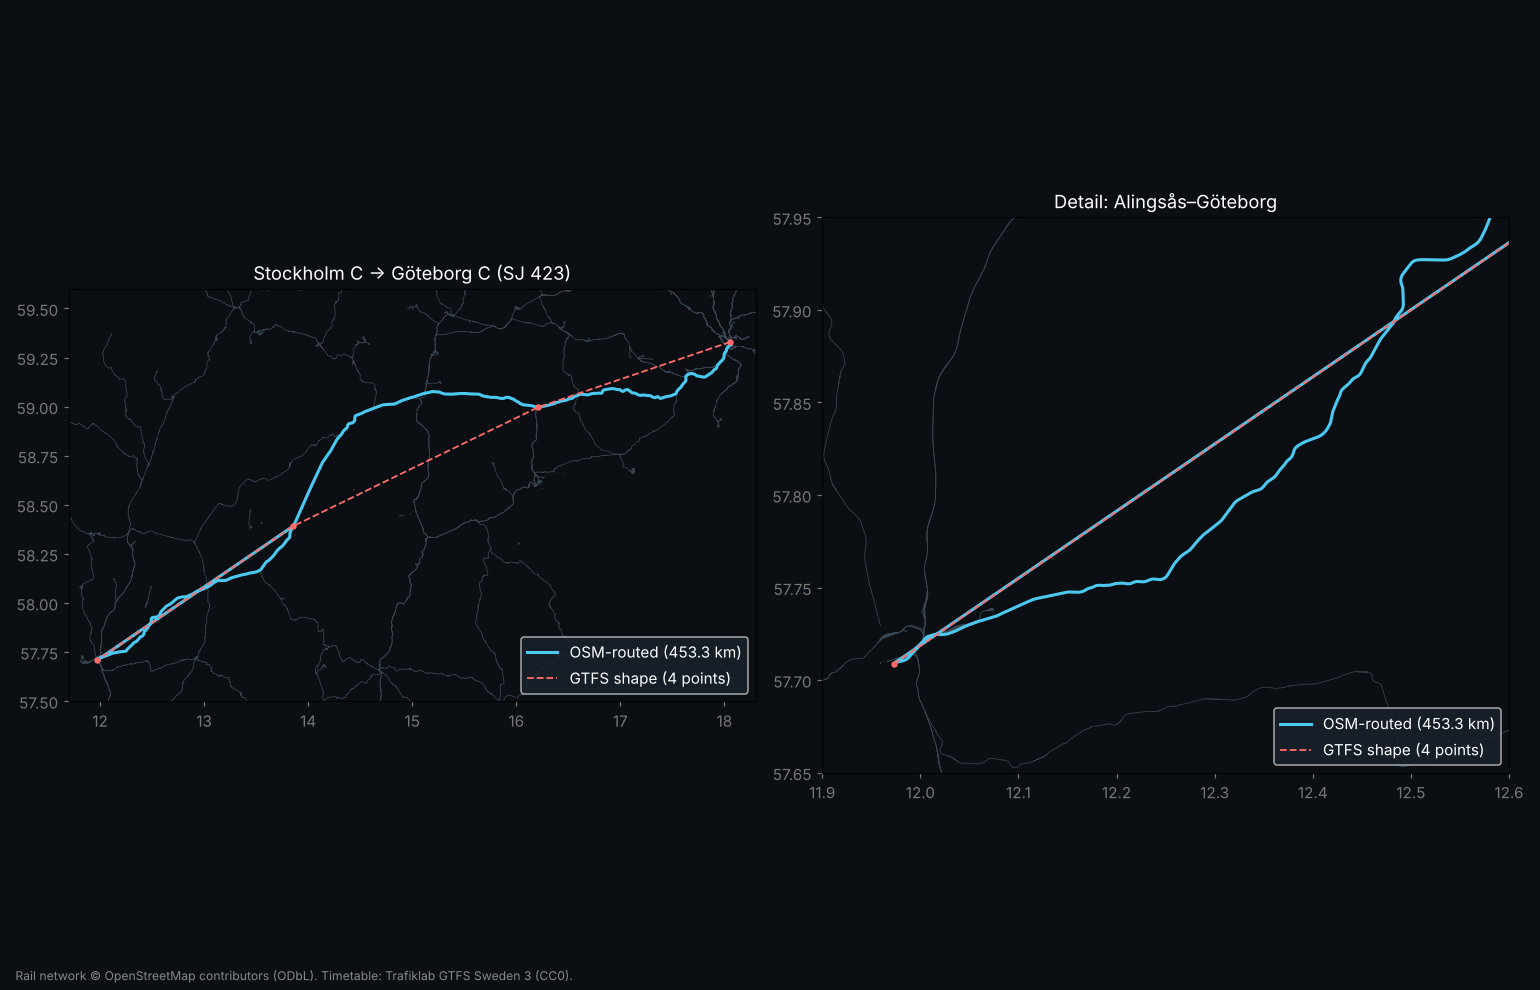
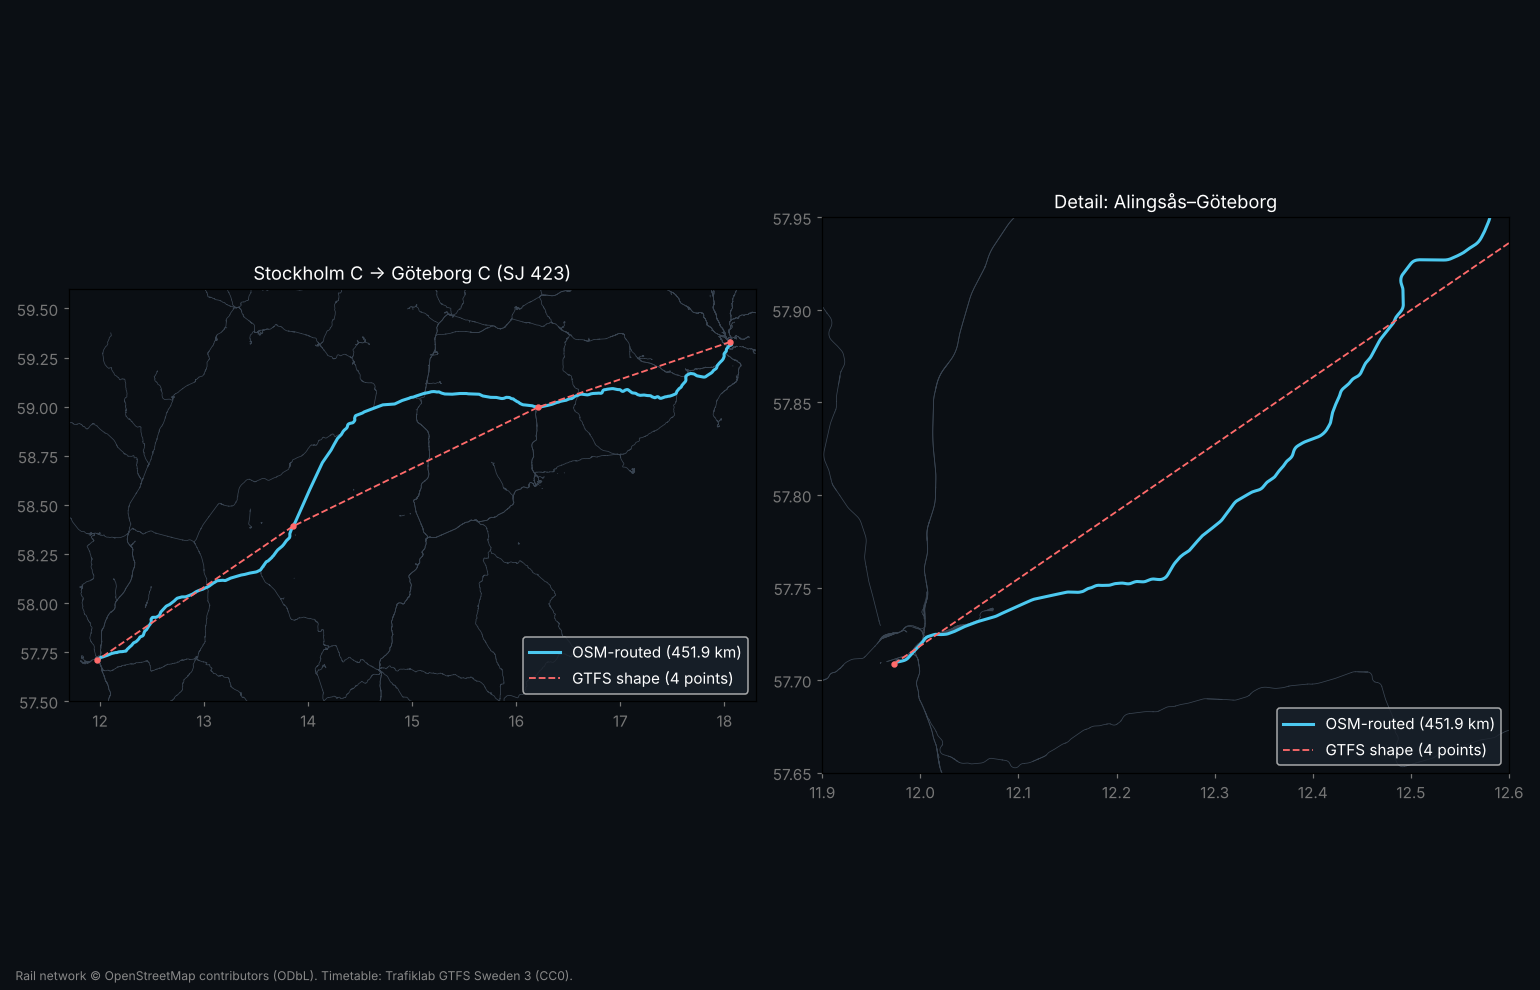
Phase 0: cross-border routing, coordinate fixes, final findings
- OSM graph now Sweden + Denmark + Norway: 99.1% of station pairs route;
  remaining 4 long routes checked against track and are real
- router uses the on-track coordinate when GTFS and Trafikverket disagree
  (Notviken is 54 km off in GTFS); fixed pair direction for drawn geometry
- findings: Trafikverket has no actual times at Danish/Norwegian stops;
  first-pass matching notes marked as superseded

Claude-Session: https://claude.ai/code/session_01UtYUJ88SAgfQVrfHXR6cFr

diff --git a/DATA_FINDINGS.md b/DATA_FINDINGS.md
@@ -16,7 +16,7 @@ downloads live in `data/cache/` (gitignored).
 |---|---|---|---|
 | A | §10: fetch actuals "when the app is opened" | **Trafikverket keeps only ~4 days of history** | A small server-side job snapshots every leg that arrived in the last 3 days (**decided**, see Decisions). |
 | B | §5.3: GTFS Sverige 2 fetched with a key, packaging unknown | Keyless public **archive of daily snapshots back to Aug 2012** at `data.samtrafiken.se` | Use the archive for history (no quota). The key is only needed for the newest snapshot. |
-| C | §12: prefer GTFS shapes if good | GTFS rail shapes are **straight stop-to-stop lines** for ~95% of trips | OSM routing is the primary geometry. It works for 94% of station pairs today; cross-border needs DK/NO/DE OSM data too. |
+| C | §12: prefer GTFS shapes if good | GTFS rail shapes are **straight stop-to-stop lines** for ~95% of trips | OSM routing is the primary geometry: **99.1% of station pairs** route along real track with SE+DK+NO data (the rest are Germany and bus stops). |
 | D | §8: rolling window −7 days from GTFS Sweden 3 | GTFS Sweden 3 starts at **yesterday** (runs to Dec 2027) | Never delete past days on import (keep our own history); older dates come from the Sverige 2 archive. |
 | E | §11: classify by route_type/agency/name | **Replacement buses are filed under rail route_types and train numbers** | Exclude using Trafikverket `TypeOfTraffic = Buss` and "trip calls at a non-railway stop". |
 | F | §5.2: GTFS file is "a download" | `sweden.zip` is **804 MB** (3.9 GB unzipped; `shapes.txt` alone is 3.0 GB) | The import must stream and should skip `shapes.txt`. |
@@ -32,7 +32,7 @@ Script: `trv-history-window.mjs`, plus a global oldest/newest query.
 
 - **Oldest row in the whole `TrainAnnouncement` dataset:** 2026-10-16 00:00 local, i.e. **00:00 four days ago**. Nothing exists before that, for any train.
 - **Newest row:** 2026-11-04 (≈ **15 days ahead**).
-- Within the window, every past advertised stop has `TimeAtLocation` (actual) and `TrackAtLocation` (platform). Example: SJ 523 on 2026-10-17/18/19 had 16/16 advertised rows with actual times and tracks.
+- Within the window, past advertised stops normally have `TimeAtLocation` (actual) and `TrackAtLocation` (platform). Example: SJ 523 on 2026-10-17/18/19 had 16/16 advertised rows with actual times and tracks. Some regional lines have gaps; see "How complete are actual times?" below.
 
 | days ago | 1 | 2 | 3 | 5 | 7 | 30 | 90 | 365 |
 |---|---|---|---|---|---|---|---|---|
@@ -42,7 +42,7 @@ Script: `trv-history-window.mjs`, plus a global oldest/newest query.
 
 **Implications**
 - "Full delay data" ends **~3 full days after the trip**. A leg added later than that, or a past leg whose actuals were never fetched in time, becomes `scheduled_only`.
-- Waiting for the user to open the app (spec §10) will lose data whenever they don't open it within 3 days. **Recommendation:** a server cron (node-cron, already in the stack) that runs a few times a day and snapshots all `planned` legs whose scheduled arrival has passed. It costs 1 Trafikverket request per leg.
+- Waiting for the user to open the app (spec §10) will lose data whenever they don't open it within 3 days. **Decided:** a server cron (node-cron, already in the stack) that runs a few times a day and snapshots all `planned` legs whose scheduled arrival has passed. It costs about 1 Trafikverket request per leg.
 - Every row also carries non-advertised technical passage points (`Advertised=false`) with actual times. That's useful later for "passed through" and progress, but filter on `Advertised=true` for the stop list.
 - Schema versions: **`TrainAnnouncement` 1.9** and **`TrainStation` 1.4** are the newest accepted (1.10 / 1.5 rejected). Times come with offsets (`+02:00`/`+01:00`), so convert to UTC on ingest.
 - Useful extra fields not in the spec: `TimeAtLocationWithSeconds`, `TypeOfTraffic` (Tåg/Pendeltåg/Buss), `ProductInformation` (e.g. "SJ Snabbtåg"), `OperationalTrainNumber`, `TrainComposition`, `Deleted`.
@@ -86,13 +86,13 @@ Script: `q2-train-numbers.mjs`, run for 2026-10-19 and 2026-10-20.
 | `trip_short_name` | 300/4157 | 291 (7.0%) |
 | `route_short_name` | 4157/4157 | 2388 (57.4%) |
 
-Per operator (2026-10-19), using `samtrafiken_internal_trip_number`:
+First pass, number only (2026-10-19), using `samtrafiken_internal_trip_number`. This is superseded by the final method below:
 - **100% match:** Västtågen, SL Pendeltåg, Pågatåg, Mälartåg, SJ, VR Sverige (Öresundståg), Tåg i Bergslagen, Krösatåg (all), Östgötapendeln, Norrtåg, Värmlandstrafik, Tågkompaniet, X-Tåget, Vygruppen.
 - **0% (expected: not in Trafikverket at all):**
   - Roslagsbanan (Transdev, 493 trips) and Saltsjöbanan (AB Stockholms Spårvägar, 231). These are not on Trafikverket's network.
   - **Arlanda Express** (180). Trafikverket's own station text says "Arlanda Express visas ej".
   - These will always be `scheduled_only`.
-- **Partial:** Snälltåget 57% and a few Öresundståg/MTRX. GTFS uses a leading extra digit for date or route variants (`90306`, `10300`, `93940`, `51053`). After dropping the first digit of a 5-digit number they match Trafikverket's `306`, `300`, `3940`, `1053` with matching times. Rule: exact match first, then prefix-stripped with time validation.
+- **Partial:** Snälltåget 57% and a few Öresundståg/MTRX. GTFS uses a leading extra digit for date or route variants (`90306`, `10300`, `93940`, `51053`). Dropping the first digit finds Trafikverket's `306`, `300`, `3940`, `1053`. But `90306` is actually a connecting bus on another route and `10300` continues as `3940`, so stripping alone is unsafe. The final method below requires matching stations *and* times.
 - 229–305 Trafikverket trains per day have no GTFS counterpart. They're mostly short-notice Västtågen variants (`63594`…), buses (`TypeOfTraffic=Buss`) and the Järnvägsmuseet railbus. A train-number search should therefore also query Trafikverket for dates inside its window.
 
 **Final matching method (`q2-match.mjs`).** Three things make "number on a date" unreliable on its own:
@@ -241,41 +241,53 @@ Scripts: `q6-shape-stats.mjs`, `osm_rail_extract.py`, `q6-osm-route.mjs`, `plot_
 
 **GTFS Sweden 3 shapes are not usable as track geometry for most trains.** For 25,531 rail shapes:
 - Västtågen, Pågatåg, SL Pendeltåg, Mälartåg, Arlanda Express, Norrtåg, Snälltåget, MTRX, Krösatåg, Öresundståg (106) and most SJ have **no more points than stops** (0.0–0.3 points/km, median gaps 8–350 km). They are straight lines between stations.
-- Detailed shapes exist only for VR Sverige (Öresundståg, 11 pts/km), Roslagsbanan (55), Saltsjöbanan (64), Tågkompaniet (22) and a few SJ. Where present they're **track-accurate**: median 6–21 m from OSM track.
+- Detailed shapes exist only for VR Sverige (Öresundståg, 11 pts/km), Roslagsbanan (55), Saltsjöbanan (64), Tågkompaniet (22) and a few SJ. Where present they're **track-accurate** (see the OSM comparison below).
 - Some shapes contain bogus far-away points (gaps up to ~5,900 km), so validate before using any.
 
-**OSM routing works** (Sweden extract from `download.openstreetmap.fr`, dated 2026-10-19, 1.0 GB). Keeping `railway=rail|light_rail|narrow_gauge` gives 25,352 ways and 313k nodes, 11.5 MB as JSON.
-- **Service track** (`service=yard|siding|spur`) must stay in the graph with a cost penalty. Dropping it disconnects Borlänge–Falun and Hallsberg–Kumla inside stations.
-- **All 867 station pairs used on 2026-10-20:**
-  - **817 (94.2%) route cleanly.** Track length is a median 1.07× the straight line (p95 1.32×).
-  - **41 fail to snap.** All are stations outside Sweden (Norway, Copenhagen side of Öresund, Germany) or bus stops, so they need DK/NO/DE OSM extracts.
-  - **1 has no path:** Halden–Ed, which crosses into Norway.
-  - **8 have suspicious detours.** Sundsvall area ×1.6–1.8, Älvkarleby–Skutskär ×1.7, Oleby–Torsby. These need snapping/tuning in Phase 1.
-- **Example: SJ 423 Stockholm C → Göteborg C routes 453.3 km** (real line ≈ 455 km). Straight stop-to-stop GTFS geometry gives 397.5 km, which would understate distance and CO₂ by ~12%. SJ 523 → Malmö: 596.6 km routed vs 533.3 km straight. See `docs/phase0/route_sample.png`.
+**OSM routing works.** Extracts from `download.openstreetmap.fr` dated 2026-10-19: Sweden 1.0 GB, Denmark 0.55 GB, Norway 1.4 GB. Keeping `railway=rail|light_rail|narrow_gauge` across all three gives 47,984 ways and 552k nodes, 25 MB as JSON. It took ~15 min to build with pyosmium.
+
+Lessons from tuning the router (`q6-osm-route.mjs`):
+- **Keep service track** (`service=yard|siding|spur`) in the graph with a 5× cost penalty. Dropping it disconnects Borlänge–Falun and Hallsberg–Kumla inside stations.
+- **Snap each station to every running-line node within 400 m**, and run one multi-source/multi-target Dijkstra with the snap distance added to the cost. Snapping to only the nearest node sometimes picked a parallel or freight line and produced detours.
+- **Fix bad station coordinates first.** GTFS puts Notviken (Luleå) 54 km away, and Rottneros, Såneby, Sunne and Bäckebron 0.6–1.5 km off. When GTFS and Trafikverket disagree by > 300 m, use whichever point is closer to the track. That applied to 6 stations; the import should do the same and log it.
+
+**Result for all 867 station pairs used on 2026-10-20:**
+
+| Outcome | Pairs | Notes |
+|---|---|---|
+| Routed cleanly | **859 (99.1%)** | track length median 1.01×, p95 1.26× the straight line |
+| Long but correct | 4 | Oleby–Torsby (the line loops north before entering Torsby), Sundsvall C–Timrå and Timrå–Sundsvalls västra (round the bay via the western triangle), Boden–Kalix (via Morjärv). Checked against the OSM plot |
+| Station not near track | 4 | Köbenhavn Syd–Berlin (Germany not loaded) and Snälltåget's Tingsryd bus stops (correctly not rail) |
+| No path | 0 | Halden–Ed and the Copenhagen/Oslo segments work with DK+NO data |
+
+- **Example: SJ 423 Stockholm C → Göteborg C routes 451.9 km** (real line ≈ 455 km). Straight stop-to-stop GTFS geometry gives 397.5 km, which would understate distance and CO₂ by ~12%. SJ 523 → Malmö: 592.5 km routed vs 533.3 km straight. See `docs/phase0/route_sample.png`.
+- **The detailed GTFS shapes are track-accurate** once Denmark and Norway are loaded: median 6–12 m from OSM track for every operator that has them, p95 18–93 m.
 - **Decision:** OSM routing is the primary geometry (spec §12 step 2), cached per station pair in `track_segments`. Use GTFS shapes only when detailed (≥ 50 points and validated against OSM). Fall back to straight lines with `is_estimated_geometry`.
-- **Environment note:** `download.geofabrik.de` connections were reset from this cloud environment. `download.openstreetmap.fr` worked. For cross-border coverage add Denmark, Norway and northern Germany extracts (or a single clipped Nordic extract).
+- **Germany/Austria:** only Snälltåget's few Berlin/Salzburg night trains need them. The mirror offers only a full Germany file (~4.5 GB) and Austria (0.97 GB). Same method; add them when those trains matter.
+- **Environment note:** `download.geofabrik.de` connections were reset from this cloud environment. `download.openstreetmap.fr` worked.
 
 ## 7. Quotas and caching
 
 | Source | Documented limit | Used in Phase 0 | Notes |
 |---|---|---|---|
-| GTFS Sweden 3 static (`opendata.samtrafiken.se`) | Bronze 10/min, **50/month** (Silver 250). `sweden_extra.zip` counts against the same quota | **1** | The owner says this key allows 60; the guard assumes 50 until confirmed. Updated daily ~05:00–06:00 (the 2026-10-20 file was `Last-Modified 03:24 UTC`) |
+| GTFS Sweden 3 static (`opendata.samtrafiken.se`) | Bronze 10/min, **50/month** (Silver 250). `sweden_extra.zip` counts against the same quota | **1** | The owner says this key allows 60; the guard assumes 50 (decided). Updated daily ~05:00–06:00 (the 2026-10-20 file was `Last-Modified 03:24 UTC`) |
 | GTFS Sverige 2 API (`api.resrobot.se`) | Bronze **1/min, 50/month** | **1** | Only needed for the newest feed. The archive is keyless |
-| GTFS Sverige 2 archive (`data.samtrafiken.se`) | none | 6 files | Plain HTTP directory listing |
+| GTFS Sverige 2 archive (`data.samtrafiken.se`) | none | ~25 files + 180 listings | Plain HTTP directory listing |
 | Trafiklab extras (`api.trafiklab.se/.../extra/*.txt`) | none (keyless) | 2 | `trafikverket_stops.txt`, `agency_stops.txt` |
-| Trafikverket Open API | no hard quota; fair use (Trafiklab support: only sustained abuse, e.g. tens of req/s, gets keys disabled) | ~40 queries | A full day of announcements is ~100k rows, fine in 5 queries |
+| Trafikverket Open API | no hard quota; fair use (Trafiklab support: only sustained abuse, e.g. tens of req/s, gets keys disabled) | ~70 queries | A full day of announcements is ~100k rows, fine in 5 queries |
 
 **Caching works:**
 - `scripts/phase0/download.mjs` refuses to re-download a dataset fetched < 20 h ago without `--force`. This was verified: a second `se3` call printed "Cached copy is 0.0h old … Not downloading".
 - It logs every call, including failures (they still count), to `data/cache/downloads.log` with timestamp, status and bytes.
 - It counts calls per month per quota group.
+- It streams to disk. That was verified byte-identical on a keyless archive file, using ~22 MB of memory. The 804 MB first download in this session was buffered in memory before this fix.
 
 ---
 
 ## Other things worth knowing
 
 - **Node + proxy:** Node's `fetch` ignores `HTTPS_PROXY`. Run scripts with `NODE_USE_ENV_PROXY=1` when behind a proxy, as in this cloud environment.
-- **Copenhagen:** Öresundståg runs into Denmark on most trips. Trafikverket covers the Danish stops (`Dk.kh` …), but the Swedish OSM extract doesn't. This matters before Phase 2 as well.
+- **Copenhagen / Oslo:** Öresundståg runs into Denmark on most trips. `TrainStation` lists Danish locations (`Dk.kh` …), but **`TrainAnnouncement` has no rows at Danish stops at all**; they appear only as `ToLocation`. On 2026-10-19 there were just 11 Norwegian rows, none with an actual time. So a leg ending in Copenhagen or Oslo gets no actual arrival from Trafikverket; it needs Rejseplanen (Phase 2) or Norwegian data. Routing is fine: the Denmark and Norway extracts are included.
 - **DST:** GTFS times are local service-day times (can exceed 24:00); Trafikverket times carry an offset. Convert both to UTC with the station's tz (`Europe/Stockholm` for all Swedish stations).
 - **Sizes for the import:** rail-only extract of GTFS Sweden 3 = 34,796 trips, 400k stop_times, 735 stations (~90 MB of JSON). Parsing the full zip by streaming takes ~2.5 min.
 
